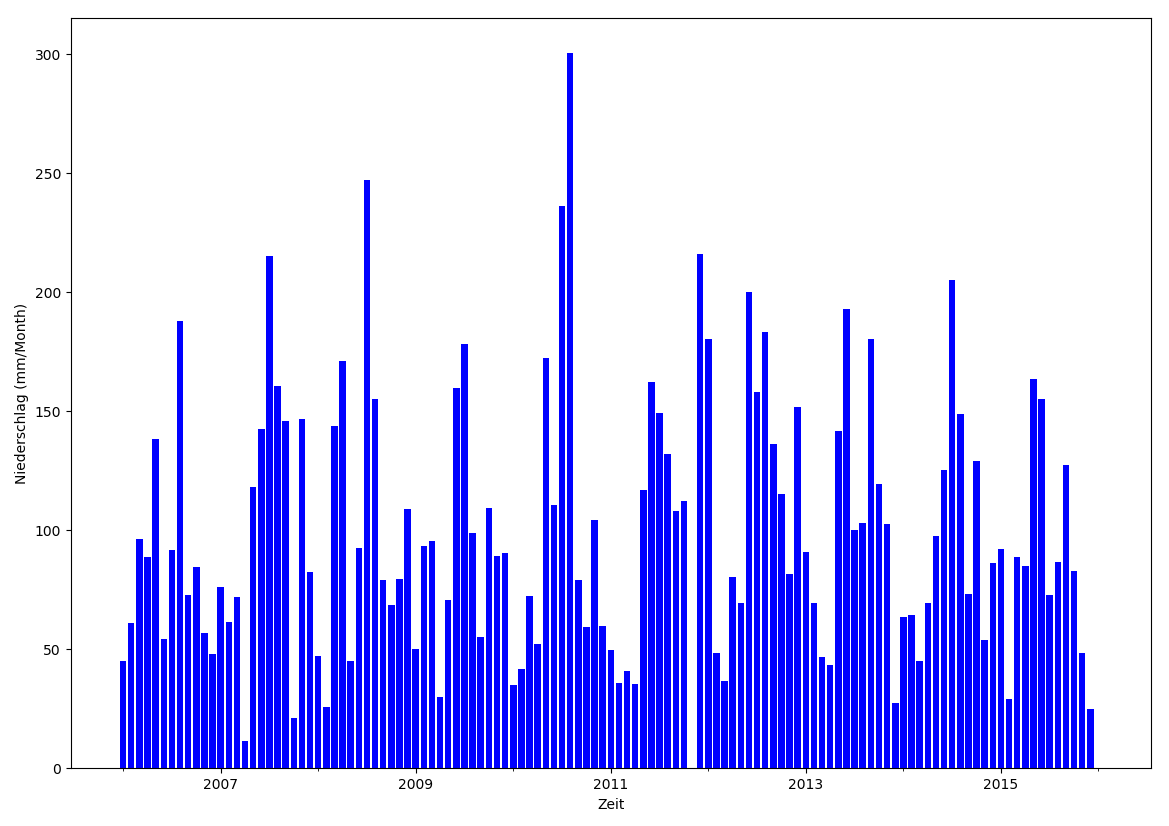
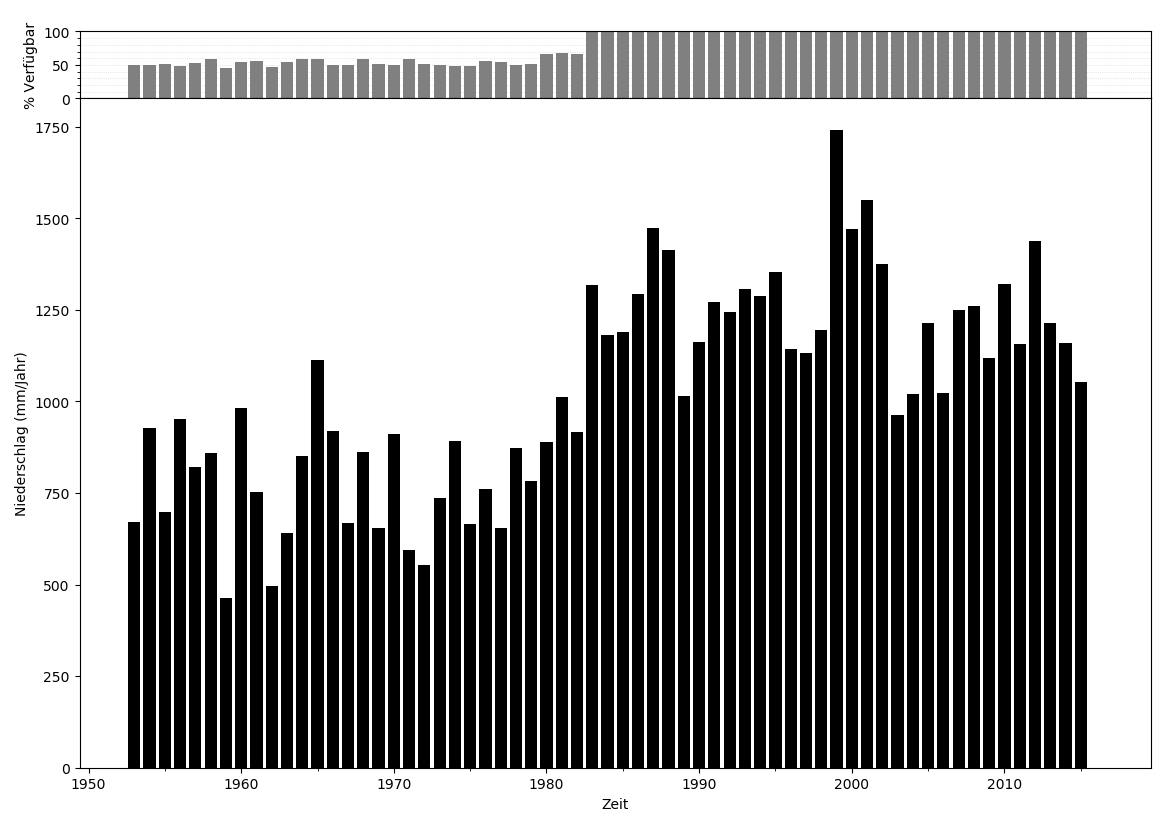
better plot

diff --git a/ehyd_tools/data_processing.py b/ehyd_tools/data_processing.py
@@ -1,3 +1,5 @@
+from matplotlib.gridspec import GridSpec
+
 __author__ = "David Camhy, Markus Pichler"
 __copyright__ = "Copyright 2017, University of Technology Graz"
 __credits__ = ["David Camhy", "Markus Pichler"]
@@ -9,7 +11,7 @@ from pandas import Timedelta, DataFrame, isna
 from numpy import NaN
 from pandas.tseries.offsets import _delta_to_tick as delta_to_freq
 from warnings import warn
-from matplotlib.pyplot import subplots
+from matplotlib.pyplot import subplots, subplot
 
 
 def year_delta(years):
@@ -104,7 +106,7 @@ def is_longer(series, years):
     return (series.index[-1] - series.index[0]) > year_delta(years=years)
 
 
-def rain_plot(series, fn):
+def rain_plot(series, availability, fn):
     """
     monthly sum bar plot
 
@@ -117,26 +119,42 @@ def rain_plot(series, fn):
 
     if is_longer(series, years=15):
         freq = 'Y'
-        freq_long = 'Year'
+        freq_long = 'Jahr'
+        base_delta = year_delta(1)
     else:
         freq = 'M'
-        freq_long = 'Month'
+        freq_long = 'Monat'
+        base_delta = year_delta(1) / 12
 
     sums = series.resample(freq).sum()
-    index = series.index.to_series().resample(freq).apply(lambda s: s.min() + abs(s.min() - s.max()) / 2).values
+    index = series.index.to_series().resample(freq).apply(lambda s: s.min() + abs(s.min() - s.max()) / 2).dt.date.values
+    avail = availability.resample(freq).sum() / (base_delta / series.index.freq)
 
     dummy = sums.rename('dummy').copy()
     dummy.loc[:] = 0
 
-    fig, ax = subplots()
-    fig.set_size_inches(w=29.7 / 2.54, h=21. / 2.54)
+    height_ratios = [1, 10]
+
+    fig, (ax1, ax) = subplots(2, gridspec_kw=dict(height_ratios=height_ratios), sharex=True)
 
     ax = dummy.plot(ax=ax, lw=0)
-    ax.bar(index, sums.values, color='b')
+    fig.set_size_inches(w=29.7 / 2.54, h=21. / 2.54)
 
+    ax1.set_ylim(0, 100)
+    ax1.set_ylabel('% Verfügbar')
+    ax1.set_yticks(range(0,110,10), minor=True)
+    ax1.grid(axis='y', which='minor', color='lightgrey', linestyle=':', linewidth=0.5)  # , zorder=-10000000)
+    ax1 = dummy.plot(ax=ax1, lw=0)
+    # ax1.scatter(x=index, y=avail.values * 100, color='grey', clip_on=False, marker='_')
+    ax1.bar(x=index, height=avail.values*100, color='grey')
+    ax1.set_axisbelow(True)
+
+    ax.bar(x=index, height=sums.values, color='k')
     ax.set_ylabel('Niederschlag (mm/{})'.format(freq_long))
     ax.set_xlabel('Zeit')
     fig.tight_layout()
+    fig.subplots_adjust(hspace=0)
+    # fig.show()
     fig.savefig(fn)
 
 

diff --git a/ehyd_tools/__main__.py b/ehyd_tools/__main__.py
@@ -7,6 +7,7 @@ __license__ = "MIT"
 
 from pandas import to_datetime, DataFrame, Series
 from os import path
+from webbrowser import open as show_file
 from .data_processing import data_validation, data_availability, max_10a, check_period, rain_plot, statistics
 from .arg_parser import ehyd_parser
 from .in_out import get_series, import_series, export_series, csv_args, get_station_meta
@@ -143,10 +144,18 @@ def execute_tool():
 
     # __________________________________________________________________________________________________________________
     if args.plot:
-        plot_fn = '{}_plot.png'.format(name)
-        rain_plot(series, plot_fn)
-        print('The plot was saved in the file "{}".'.format(plot_fn))
 
+        if tags.empty:
+            tags = data_validation(series)
+        if availability.empty:
+            availability = data_availability(tags)
+
+        plot_fn = '{}_plot.png'.format(name)
+        rain_plot(series, availability, plot_fn)
+        print('The plot was saved in the file "{}".'.format(plot_fn))
+        show = True
+        if show:
+            show_file(plot_fn)
 
 # ______________________________________________________________________________________________________________________
 if __name__ == '__main__':

diff --git a/ehyd_tools/in_out.py b/ehyd_tools/in_out.py
@@ -85,7 +85,7 @@ def import_series(filename, series_label='precipitation', index_label='datetime'
         except ParserError:
             return _parse(filename)
     elif filename.endswith('parquet'):
-        return pd.read_parquet(filename).iloc[:, 0].copy()
+        return pd.read_parquet(filename).iloc[:, 0].asfreq('T').copy()
     else:
         raise NotImplementedError('Sorry, but only csv files are implemented. Maybe there will be more options soon.')
 
